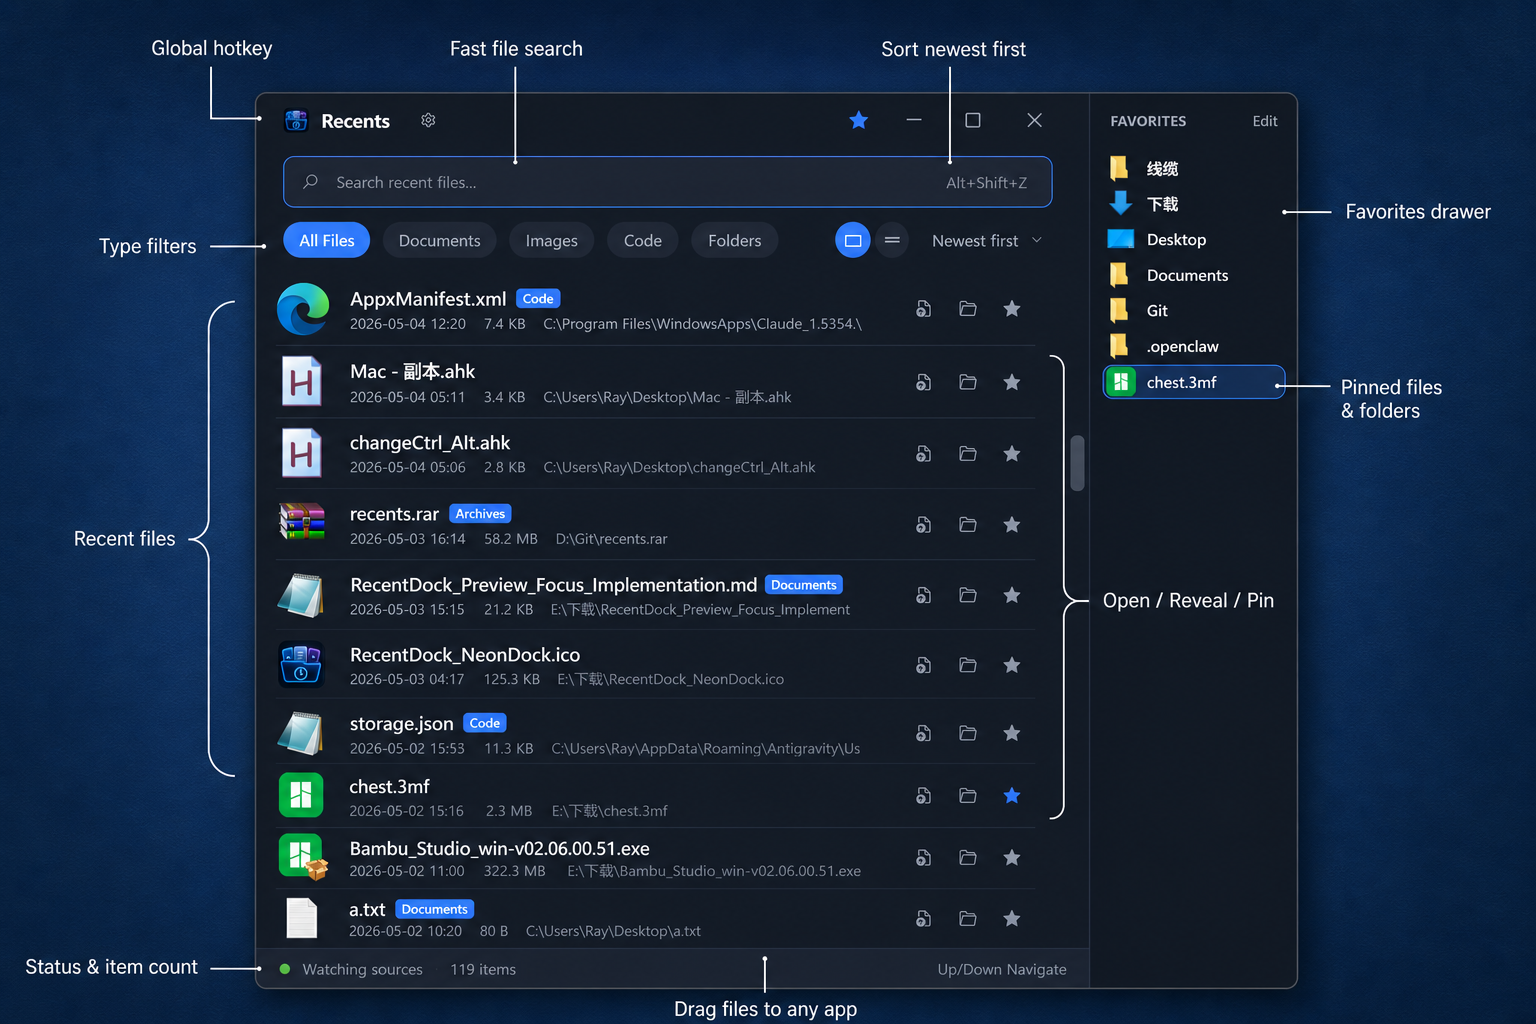
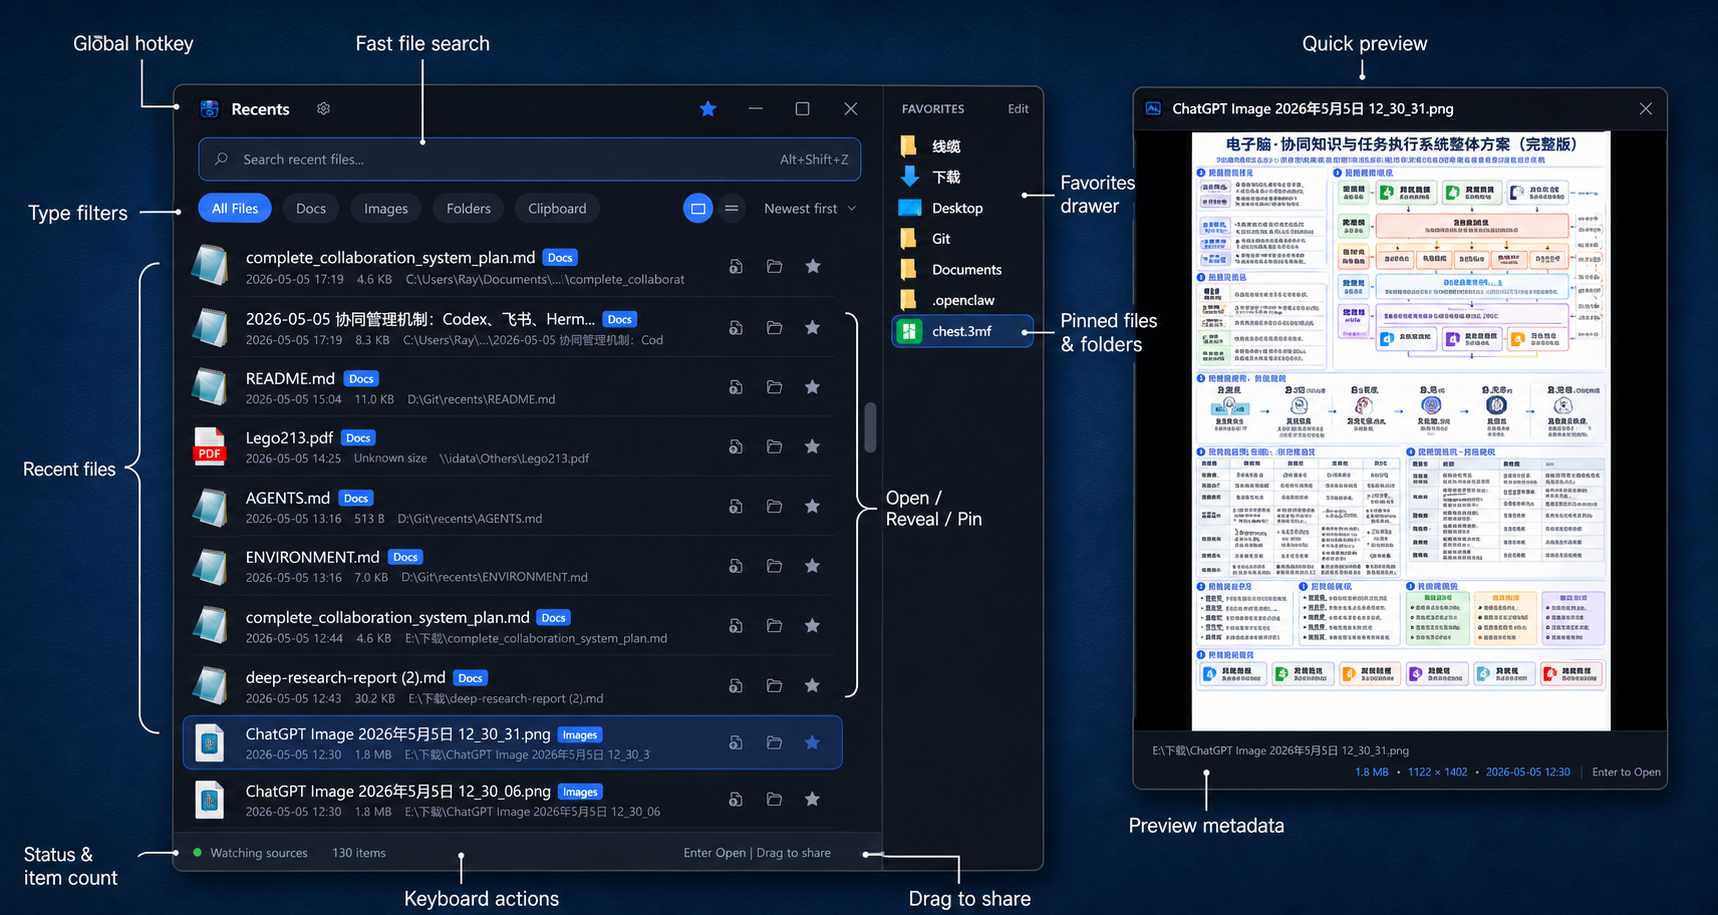
Refresh README product overview

diff --git a/README.md b/README.md
@@ -3,71 +3,119 @@
 [![Windows](https://img.shields.io/badge/Windows-10%201903%2B%20%7C%2011-0078D4?style=for-the-badge&logo=windows&logoColor=white)](#requirements)
 [![.NET](https://img.shields.io/badge/.NET-8%2B-512BD4?style=for-the-badge&logo=dotnet&logoColor=white)](#development)
 [![WPF](https://img.shields.io/badge/UI-WPF-5C2D91?style=for-the-badge)](#technology)
-[![Local First](https://img.shields.io/badge/Privacy-Local%20First-10B981?style=for-the-badge)](#privacy)
+[![License](https://img.shields.io/badge/License-Apache--2.0-10B981?style=for-the-badge)](LICENSE)
 
-**Recents is a lightweight Windows launcher for people who work with files all day.**
+**Recents is a local-first Windows command center for recent files, folders, and clipboard history.**
 
-Press a global hotkey, find the file you just saved, downloaded, edited, or opened, then drag it into another app, open it, reveal it in Explorer, pin it, or preview it with the keyboard.
+Use a global hotkey to bring up the files you just saved, downloaded, opened, copied, or edited. Search them, preview them, drag them into another app, paste clipboard items back to the active window, or pin your frequent handoff targets.
 
 [中文](#recents-中文)
 
-## Screenshot
+## Screenshots
 
 <p align="center">
   <img src="docs/images/recents-feature-overview.png" alt="Recents feature overview" width="960">
 </p>
 
+<p align="center">
+  <img src="docs/images/recents-clipboard-overview.png" alt="Recents clipboard history overview" width="960">
+</p>
+
 ## Why Recents?
 
-Windows remembers files in several different places, but the result is scattered: Recent Items, Office MRU, Open/Save dialogs, Downloads, Desktop, Documents, network folders, and app-specific working directories all tell only part of the story.
+Windows keeps useful activity trails in many places: Recent Items, Office MRU, Open/Save dialogs, Downloads, Desktop, Documents, network shares, and the clipboard. Recents brings those trails into one fast, keyboard-friendly surface.
 
-Recents builds a local, multi-source recent-file index so the thing you just touched is close at hand. It is inspired by the same file-first workflow niche as macOS tools like Trickster: fast access to recent files, keyboard navigation, folder filters, and fewer trips through Explorer.
+It is designed for people who constantly hand files and snippets between tools: chat apps, browsers, forms, Office, IDEs, image editors, CAD tools, file servers, and internal systems.
 
-## Features
+## Core Features
 
 | Capability | What it does |
 | --- | --- |
-| **Global hotkey** | Show or hide Recents from anywhere. Default: `Alt+Shift+Z`, with fallback hotkeys when occupied. |
-| **Real file paths** | Resolves `.lnk` shortcuts and passes original paths when opening, revealing, copying, or dragging. |
-| **Drag to share** | Drag one or more files into WeChat, Lark, mail clients, browsers, upload forms, Explorer, and other Windows apps. |
-| **Multi-source index** | Watches known folders, custom folders, UNC/network paths, Windows Recent Items, Office MRU, and Open/Save dialog MRU. |
-| **Fast search and filters** | Filter by name, extension, path, and file groups such as Documents, Images, Code, and Folders. |
-| **Favorites drawer** | Pin files or folders into a persistent right-side drawer, reorder them, and keep frequent handoff targets nearby. |
-| **Quick preview** | Press `Space` to preview supported files with WebView2: PDF, images, text, CSV, code, Markdown, audio, and video. |
-| **Tray resident** | Runs as a single-instance tray app, with optional launch at startup, start minimized, always-on-top, and hide-on-focus-lost behavior. |
-| **Privacy-first** | Stores settings, logs, icon cache, and SQLite index locally. It does not upload files or delete original files. |
+| **Global file launcher** | Press `Alt+Shift+Z` to show or hide the main Recents window from anywhere. |
+| **Pop Paste clipboard launcher** | Press `Alt+Shift+V` to search clipboard history and paste the selected item into the active app. |
+| **Multi-source recent-file index** | Watches known folders, custom folders, UNC shares, Windows Recent Items, Office MRU, and Open/Save dialog MRU. |
+| **Real file paths** | Resolves `.lnk` shortcuts and always acts on original files when opening, revealing, copying, previewing, or dragging. |
+| **Drag to any app** | Drag one or more files into chat apps, browsers, mail clients, upload forms, Explorer, and other Windows programs. |
+| **Fast search and filters** | Search by filename, extension, path, clipboard text, and metadata; filter by All Files, Docs, Images, Folders, and Clipboard. |
+| **Quick preview** | Press `Space` to preview files or clipboard items with WebView2. Supports images, PDF, text, HTML, CSV, code, Markdown, audio, and video. |
+| **Favorites drawer** | Pin files, folders, and clipboard snapshots into one persistent drawer and reorder them. |
+| **Open With history** | Keep recently used apps per extension/folder type for faster handoff to the right tool. |
+| **Tray resident** | Runs as a single-instance tray app with launch-at-startup, start-minimized, always-on-top, close-to-tray, and hide-on-focus-lost options. |
 
-## Everyday Flow
+## File Workflow
 
 1. Press `Alt+Shift+Z`.
-2. Type part of a filename, extension, or folder path.
+2. Type part of a filename, extension, folder path, or source.
 3. Use `Up` / `Down` to select.
-4. Press `Enter` to open, `Space` to preview, or drag the file into another app.
-5. Press `Esc` to hide Recents.
+4. Press `Enter` to open, `Space` to preview, or drag the file to another app.
+5. Use the context menu to reveal in Explorer, open with a specific app, copy paths, pin, hide, or remove an item.
+
+Recents stores a local SQLite index so the list is ready immediately at startup, then refreshes sources in the background.
+
+## Clipboard Workflow
+
+Clipboard history is optional and configurable. When enabled, Recents can capture:
+
+- Text
+- Files and folders
+- Images
+- HTML
+- Rich text
+
+Use `Alt+Shift+V` to open Pop Paste over the current app. Type to filter, use `Up` / `Down` to move, press `Enter` to paste, press `Space` to preview, and press `Esc` to close. `Ctrl+Click` pastes text-like items as plain text.
+
+Clipboard settings include max items, retention days, max text length, max image size, source-app exclusions, sensitive text filters, temporary pause/resume, and optional restoration of the previous clipboard after paste.
 
 ## Data Sources
-
-Recents combines live file-system watchers with system MRU sources:
 
 | Source | Purpose |
 | --- | --- |
 | Known folders | Downloads, Desktop, Documents, Pictures, Videos, and Music. |
 | Custom local folders | Any folder you add in Settings. |
-| UNC/network paths | Network shares such as `\\server\share\project`. Unavailable sources are marked unknown without blocking the UI. |
+| UNC/network paths | Network shares such as `\\server\share\project`; unavailable sources are marked unknown without blocking the UI. |
 | Windows Recent Items | Resolves `.lnk` entries under the Windows Recent folder back to original targets. |
 | Office MRU | Reads Microsoft Office recent-file records from the current user registry hive. |
 | Open/Save dialog MRU | Reads Explorer common-dialog MRU entries and decodes PIDL paths where possible. |
+| Clipboard store | Stores captured clipboard metadata and payload snapshots locally when clipboard history is enabled. |
+
+## Preview
+
+Quick preview uses WebView2 and a local virtual host mapping for safe rendering of supported local content. It handles ordinary files and clipboard items, including clipboard images, HTML fragments, rich text, and file lists.
+
+Unsupported, too-large, missing, or unavailable items fall back to a clear preview state instead of blocking the main window.
+
+## Privacy
+
+Recents is local-first:
+
+- No account or login
+- No cloud sync
+- No telemetry pipeline
+- No upload of files or clipboard contents
+- No deletion of original files
+- Settings, indexes, icon cache, logs, and clipboard data stay under your Windows user profile
+
+Clipboard history is off by default in settings. Sensitive text patterns and excluded source apps are configurable, and password-manager style apps are excluded by default.
 
 ## What Recents Is Not
 
-Recents is intentionally small and local. It is not a file manager, cloud drive, full-text search engine, automation platform, sync service, or account-based product. Cloud folders can be added as normal local folders if they are mounted on disk, but Recents does not trigger cloud-only downloads or perform vendor-specific cloud integration.
+Recents is not a cloud drive, file manager, full-text search engine, sync service, plugin host, automation platform, or account-based product. Mounted cloud folders can be added as normal local folders, but Recents does not perform vendor-specific cloud integration or trigger cloud-only downloads.
 
 ## Requirements
 
 - Windows 10 1903 or later, or Windows 11
 - x64
-- .NET 8 Desktop Runtime or a newer compatible .NET runtime
+- .NET 8 Desktop Runtime or a newer compatible .NET runtime for the framework-dependent build
 - Microsoft Edge WebView2 Runtime for quick preview
+
+The self-contained release package includes the .NET/Windows Desktop runtime. WebView2 may still be required by Windows if it is not already installed.
+
+## Download
+
+Download builds from [GitHub Releases](https://github.com/phoenixray2000/recents/releases).
+
+- **Framework-dependent package**: smaller download, requires .NET Desktop Runtime.
+- **Self-contained package**: larger download, includes the .NET runtime.
 
 ## Development
 
@@ -94,30 +142,14 @@ dotnet build Recents.sln --no-restore
 ## Technology
 
 - C# / .NET 8+ with `RollForward=Major`
-- WPF desktop UI, no Electron/Tauri/WebView shell for the main window
+- WPF desktop UI
 - Windows Forms `NotifyIcon` for tray residency
-- Win32 `RegisterHotKey` for the global hotkey
+- Win32 `RegisterHotKey` for global shortcuts
 - `FileSystemWatcher` for folder monitoring
-- SQLite for the local recent-file index
+- SQLite for local recent-file and clipboard indexes
 - JSON settings under the user profile
 - WebView2 for quick preview rendering
-
-## Privacy
-
-Recents is local-first:
-
-- No login
-- No cloud sync
-- No telemetry pipeline
-- No upload of your files
-- No deletion of original files
-- Settings and index data stay under your Windows user profile
-
-Verbose logs are optional. By default, logging is designed to avoid exposing full paths unnecessarily.
-
-## Project Status
-
-Recents is under active development. The current focus is a practical Windows workflow: quickly retrieve, preview, drag, and open real recent files from multiple local sources.
+- Apache License 2.0
 
 ## License
 
@@ -130,11 +162,11 @@ Licensed under the [Apache License 2.0](LICENSE).
 [![Windows](https://img.shields.io/badge/Windows-10%201903%2B%20%7C%2011-0078D4?style=for-the-badge&logo=windows&logoColor=white)](#系统要求)
 [![.NET](https://img.shields.io/badge/.NET-8%2B-512BD4?style=for-the-badge&logo=dotnet&logoColor=white)](#开发)
 [![WPF](https://img.shields.io/badge/UI-WPF-5C2D91?style=for-the-badge)](#技术栈)
-[![本地优先](https://img.shields.io/badge/Privacy-Local%20First-10B981?style=for-the-badge)](#隐私)
+[![许可证](https://img.shields.io/badge/License-Apache--2.0-10B981?style=for-the-badge)](LICENSE)
 
-**Recents 是一个面向 Windows 重度文件工作流的轻量最近文件启动器。**
+**Recents 是一个本地优先的 Windows 最近文件、文件夹与剪贴板历史工作台。**
 
-按下全局快捷键，快速找到刚保存、下载、编辑或打开过的真实文件，然后拖到其他应用、打开、定位到 Explorer、固定收藏，或直接用键盘预览。
+用全局快捷键呼出刚保存、下载、打开、复制或编辑过的内容。你可以搜索、预览、拖到其他应用、把剪贴板条目粘贴回当前窗口，或者把高频使用的文件、文件夹和剪贴板快照固定起来。
 
 [English](#recents)
 
@@ -144,57 +176,105 @@ Licensed under the [Apache License 2.0](LICENSE).
   <img src="docs/images/recents-feature-overview.png" alt="Recents 功能概览截图" width="960">
 </p>
 
+<p align="center">
+  <img src="docs/images/recents-clipboard-overview.png" alt="Recents 剪贴板历史功能概览截图" width="960">
+</p>
+
 ## 为什么做 Recents？
 
-Windows 其实记录了很多最近文件，但它们分散在不同位置：Recent Items、Office MRU、打开/保存对话框记录、下载目录、桌面、文档、网络共享盘，以及用户自己的工作目录。单看任何一个来源，都不完整。
+Windows 会在很多地方留下最近活动记录：Recent Items、Office MRU、打开/保存对话框、下载目录、桌面、文档、网络共享盘和剪贴板。Recents 把这些分散线索收进一个快速、键盘友好的界面。
 
-Recents 会在本机建立一个多来源最近文件索引，让「刚才处理过的文件」始终离你更近。它参考了 macOS 上 Trickster 这类文件优先工具的工作流：快速访问最近文件、键盘导航、目录过滤，以及尽量少打开 Explorer 翻路径。
+它面向每天在多个工具之间搬运文件和片段的人：聊天软件、浏览器、网页表单、Office、IDE、图像编辑器、CAD、文件服务器和内部系统。
 
-## 功能
+## 核心功能
 
 | 能力 | 说明 |
 | --- | --- |
-| **全局快捷键** | 在任何地方呼出或隐藏 Recents。默认 `Alt+Shift+Z`，被占用时会尝试候选热键。 |
-| **真实文件路径** | 解析 `.lnk` 快捷方式，打开、定位、复制、拖拽时都作用于原始文件路径。 |
-| **拖拽分享** | 可把一个或多个文件拖到微信、飞书、邮件、浏览器上传框、Explorer 和其他 Windows 应用。 |
-| **多来源索引** | 监听已知文件夹、自定义目录、UNC 网络路径，并读取 Windows Recent Items、Office MRU、打开/保存对话框 MRU。 |
-| **快速搜索与筛选** | 按文件名、扩展名、路径搜索，并按 Documents、Images、Code、Folders 等类型筛选。 |
-| **收藏抽屉** | 将常用文件或文件夹固定到右侧持久收藏抽屉，支持排序和快速访问。 |
-| **空格预览** | 按 `Space` 预览支持的文件：PDF、图片、文本、CSV、代码、Markdown、音频、视频。 |
-| **常驻托盘** | 单实例托盘应用，支持开机自启、启动最小化、置顶、失焦隐藏、关闭到托盘等行为。 |
-| **隐私优先** | 设置、日志、图标缓存和 SQLite 索引都保存在本机；不上传文件，也不删除原始文件。 |
+| **全局文件启动器** | 按 `Alt+Shift+Z` 在任何地方呼出或隐藏主窗口。 |
+| **Pop Paste 剪贴板启动器** | 按 `Alt+Shift+V` 搜索剪贴板历史，并把选中条目粘贴到当前应用。 |
+| **多来源最近文件索引** | 监听已知文件夹、自定义目录、UNC 共享，并读取 Windows Recent Items、Office MRU、打开/保存对话框 MRU。 |
+| **真实文件路径** | 解析 `.lnk` 快捷方式，打开、定位、复制、预览、拖拽时都作用于原始文件。 |
+| **拖到任意应用** | 可把一个或多个文件拖到聊天软件、浏览器、邮件客户端、上传表单、Explorer 和其他 Windows 程序。 |
+| **快速搜索与筛选** | 按文件名、扩展名、路径、剪贴板文本和元数据搜索；按 All Files、Docs、Images、Folders、Clipboard 筛选。 |
+| **快速预览** | 按 `Space` 使用 WebView2 预览文件或剪贴板条目，支持图片、PDF、文本、HTML、CSV、代码、Markdown、音频和视频。 |
+| **收藏抽屉** | 把文件、文件夹和剪贴板快照固定到同一个持久收藏抽屉，并支持排序。 |
+| **打开方式历史** | 按扩展名和文件夹类型保留最近使用的应用，便于快速交给正确工具处理。 |
+| **常驻托盘** | 单实例托盘应用，支持开机自启、启动最小化、置顶、失焦隐藏和关闭到托盘。 |
 
-## 日常使用
+## 文件工作流
 
 1. 按 `Alt+Shift+Z`。
-2. 输入文件名、扩展名或路径片段。
+2. 输入文件名、扩展名、路径片段或来源。
 3. 用 `Up` / `Down` 选择。
 4. 按 `Enter` 打开，按 `Space` 预览，或直接拖到其他应用。
-5. 按 `Esc` 隐藏窗口。
+5. 通过右键菜单定位到 Explorer、选择打开方式、复制路径、固定、隐藏或移除条目。
+
+Recents 使用本地 SQLite 索引，因此启动时可以立即显示缓存列表，并在后台刷新来源。
+
+## 剪贴板工作流
+
+剪贴板历史是可选功能，可在设置中开启和配置。开启后可以捕获：
+
+- 文本
+- 文件和文件夹
+- 图片
+- HTML
+- 富文本
+
+按 `Alt+Shift+V` 可在当前应用上方打开 Pop Paste。直接输入过滤内容，用 `Up` / `Down` 移动，按 `Enter` 粘贴，按 `Space` 预览，按 `Esc` 关闭。`Ctrl+单击` 可把文本类条目作为纯文本粘贴。
+
+剪贴板设置包括最大条目数、保留天数、最大文本长度、最大图片大小、来源程序排除、敏感文本过滤、临时暂停/恢复，以及粘贴后是否恢复之前的剪贴板。
 
 ## 数据来源
-
-Recents 会组合文件系统监听和系统 MRU 数据：
 
 | 来源 | 用途 |
 | --- | --- |
 | 已知文件夹 | Downloads、Desktop、Documents、Pictures、Videos、Music。 |
 | 自定义本地目录 | 在设置里手动添加的任意目录。 |
-| UNC / 网络路径 | 例如 `\\server\share\project`。网络不可用时标记为 unknown，不阻塞界面。 |
+| UNC / 网络路径 | 例如 `\\server\share\project`；网络不可用时标记为 unknown，不阻塞界面。 |
 | Windows Recent Items | 读取 Windows Recent 文件夹里的 `.lnk`，并解析回原始目标路径。 |
 | Office MRU | 从当前用户注册表读取 Microsoft Office 最近文件记录。 |
 | 打开/保存对话框 MRU | 读取 Explorer 通用对话框 MRU，并尽量解析 PIDL 路径。 |
+| 剪贴板存储 | 启用剪贴板历史后，在本地保存剪贴板元数据和内容快照。 |
+
+## 预览
+
+快速预览使用 WebView2，并通过本地虚拟主机映射安全渲染支持的本地内容。它既能处理普通文件，也能处理剪贴板图片、HTML 片段、富文本和文件列表。
+
+不支持、过大、缺失或不可访问的条目会显示明确状态，不会阻塞主窗口。
+
+## 隐私
+
+Recents 是本地优先的桌面工具：
+
+- 无账号登录
+- 无云同步
+- 无遥测管线
+- 不上传文件或剪贴板内容
+- 不删除原始文件
+- 设置、索引、图标缓存、日志和剪贴板数据保存在你的 Windows 用户目录下
+
+剪贴板历史默认关闭。敏感文本规则和排除来源程序可以配置，密码管理器类应用默认排除。
 
 ## Recents 不做什么
 
-Recents 有意保持小而本地化。它不是文件管理器、云盘、全文搜索引擎、自动化平台、同步服务，也不是需要账号登录的产品。已挂载到本地的云盘目录可以作为普通目录添加，但 Recents 不会触发 cloud-only 文件下载，也不做厂商特定的云盘集成。
+Recents 不是云盘、文件管理器、全文搜索引擎、同步服务、插件宿主、自动化平台，也不是需要账号登录的产品。已挂载到本地的云盘目录可以作为普通目录添加，但 Recents 不会做厂商特定的云盘集成，也不会触发 cloud-only 文件下载。
 
 ## 系统要求
 
 - Windows 10 1903 或更新版本，或 Windows 11
 - x64
-- .NET 8 Desktop Runtime 或更高兼容版本
-- Microsoft Edge WebView2 Runtime，用于空格预览
+- framework-dependent 包需要 .NET 8 Desktop Runtime 或更高兼容版本
+- 快速预览需要 Microsoft Edge WebView2 Runtime
+
+self-contained 发布包包含 .NET/Windows Desktop runtime。如果系统尚未安装 WebView2，预览功能仍可能需要安装 WebView2 Runtime。
+
+## 下载
+
+从 [GitHub Releases](https://github.com/phoenixray2000/recents/releases) 下载发布包。
+
+- **framework-dependent 包**：体积更小，需要 .NET Desktop Runtime。
+- **self-contained 包**：体积更大，内置 .NET runtime。
 
 ## 开发
 
@@ -221,30 +301,14 @@ dotnet build Recents.sln --no-restore
 ## 技术栈
 
 - C# / .NET 8+，运行时允许 `RollForward=Major`
-- WPF 桌面 UI，主窗口不使用 Electron、Tauri 或 WebView 外壳
+- WPF 桌面 UI
 - Windows Forms `NotifyIcon` 实现托盘常驻
 - Win32 `RegisterHotKey` 实现全局快捷键
 - `FileSystemWatcher` 实现目录监听
-- SQLite 保存本地最近文件索引
+- SQLite 保存本地最近文件和剪贴板索引
 - JSON 保存用户配置
 - WebView2 用于快速预览渲染
-
-## 隐私
-
-Recents 是本地优先的桌面工具：
-
-- 无登录
-- 无云同步
-- 无遥测管线
-- 不上传你的文件
-- 不删除原始文件
-- 设置与索引数据保存在你的 Windows 用户目录下
-
-详细日志是可选项。默认日志策略会尽量避免不必要地暴露完整路径。
-
-## 项目状态
-
-Recents 正在持续开发中。当前目标很明确：在 Windows 上快速找回、预览、拖拽和打开来自多个本地来源的真实最近文件。
+- Apache License 2.0
 
 ## 许可证
 